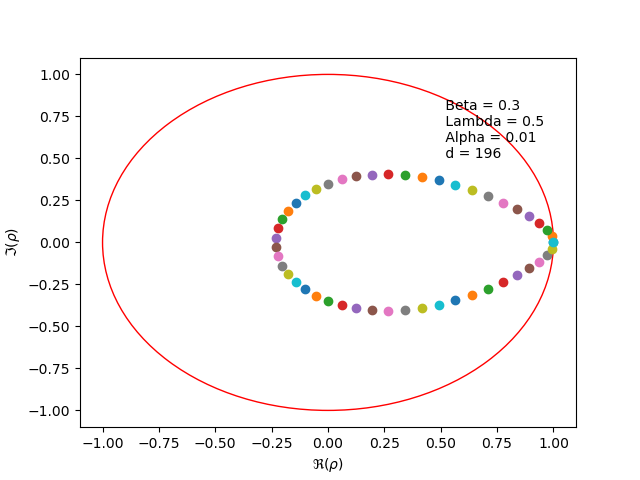
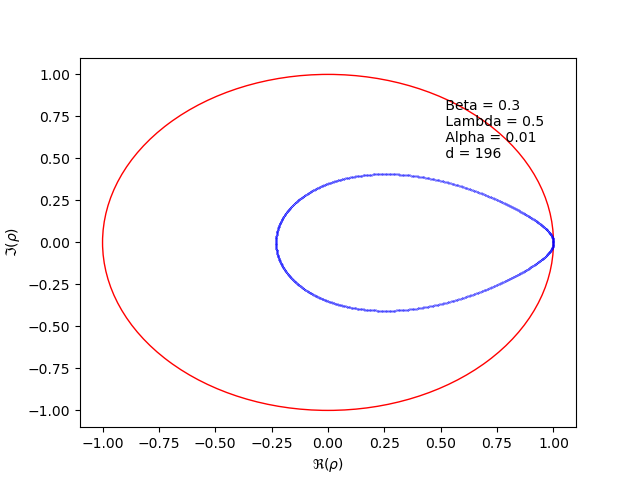
update

Changed region(s): [[0.4062, 0.3438, 0.8438, 0.5938], [0.4688, 0.5938, 0.7812, 0.6562], [0.7812, 0.4688, 0.875, 0.5938]]

diff --git a/unidimensional/without torch/main.py b/unidimensional/without torch/main.py
@@ -1,17 +1,17 @@
-from os import times
+from matplotlib import projections
 import numpy as np
 import matplotlib.pyplot as plt
 import matplotlib as mpl
 
 mpl.style.use('seaborn')
 #params
-b = 0.33
-l = 0.33
+b = 0.3
+l = 0.5
 a = 0.01
 d = 100
 
 timesteps = 500
-J = 100
+J = 500
 
 #init
 e = np.zeros((timesteps,J+1))
@@ -20,16 +20,11 @@ e = np.zeros((timesteps,J+1))
 e_0 = 0
 e[:,0] = np.repeat(e_0,timesteps)
 
-# #feedforward weights for first ff pass
-# w = np.zeros(J+1) #np.random.normal(scale=0.5,size=J+1)
-# #first forward pass
-# for j in range(J):
-#     e[:,j+1] = w[j]*e[:,j]
 
 e[:,J//2] = 1
 
 #Neumann
-e[:,J-1] = e[:,J]
+e[:,J] = e[:,J-1]
 
 
 #PC algorithm
@@ -37,18 +32,36 @@ for n in range(timesteps-1):
     for j in range(1,J):
         e[n+1,j] = b*e[n+1,j-1] + l*e[n,j+1] +(1-b-l)* e[n,j] + a/d * (e[n,j-1] - e[n,j])
     #Neumann
-    e[n+1,J-1] = e[n+1,J] 
+    e[n+1,J] = e[n+1,J-1] 
 
 
 
 plt.figure()
 
 for n in range(timesteps):
-    plt.plot(e[n,:],color = plt.get_cmap('magma')(float(n)/timesteps))
+    if n%5 == 0:
+        plt.plot(e[n,:],color = plt.get_cmap('magma')(float(n)/timesteps))
 plt.ylabel('$\\epsilon$')
 plt.ylim(0,0.1)
 plt.xlim(0,J)
 plt.xlabel(f'Layers (0 < j < {J})')
 plt.title(f'Solution over {timesteps} time iterations')
 plt.text(3/4*J,0.07,f" $\\beta = {b} $\n $\lambda = {l} $\n $\\alpha = {a} $\n $d = {d} $")
+plt.show()
+
+
+ax = plt.figure().add_subplot(projection="3d")
+
+for n in range(timesteps):
+    if n%10 == 0:
+        ax.plot(np.array(range(J+1)),e[n,:],zs = n, zdir ='y',color = plt.get_cmap('magma')(float(n)/timesteps))
+
+ax.set_xlim(0,J)
+ax.set_zlim(0,0.05)
+ax.set_ylim(0,timesteps)
+ax.set_xlabel('j')
+ax.set_ylabel('n')
+ax.set_zlabel('$\epsilon$')
+
+
 plt.show()
